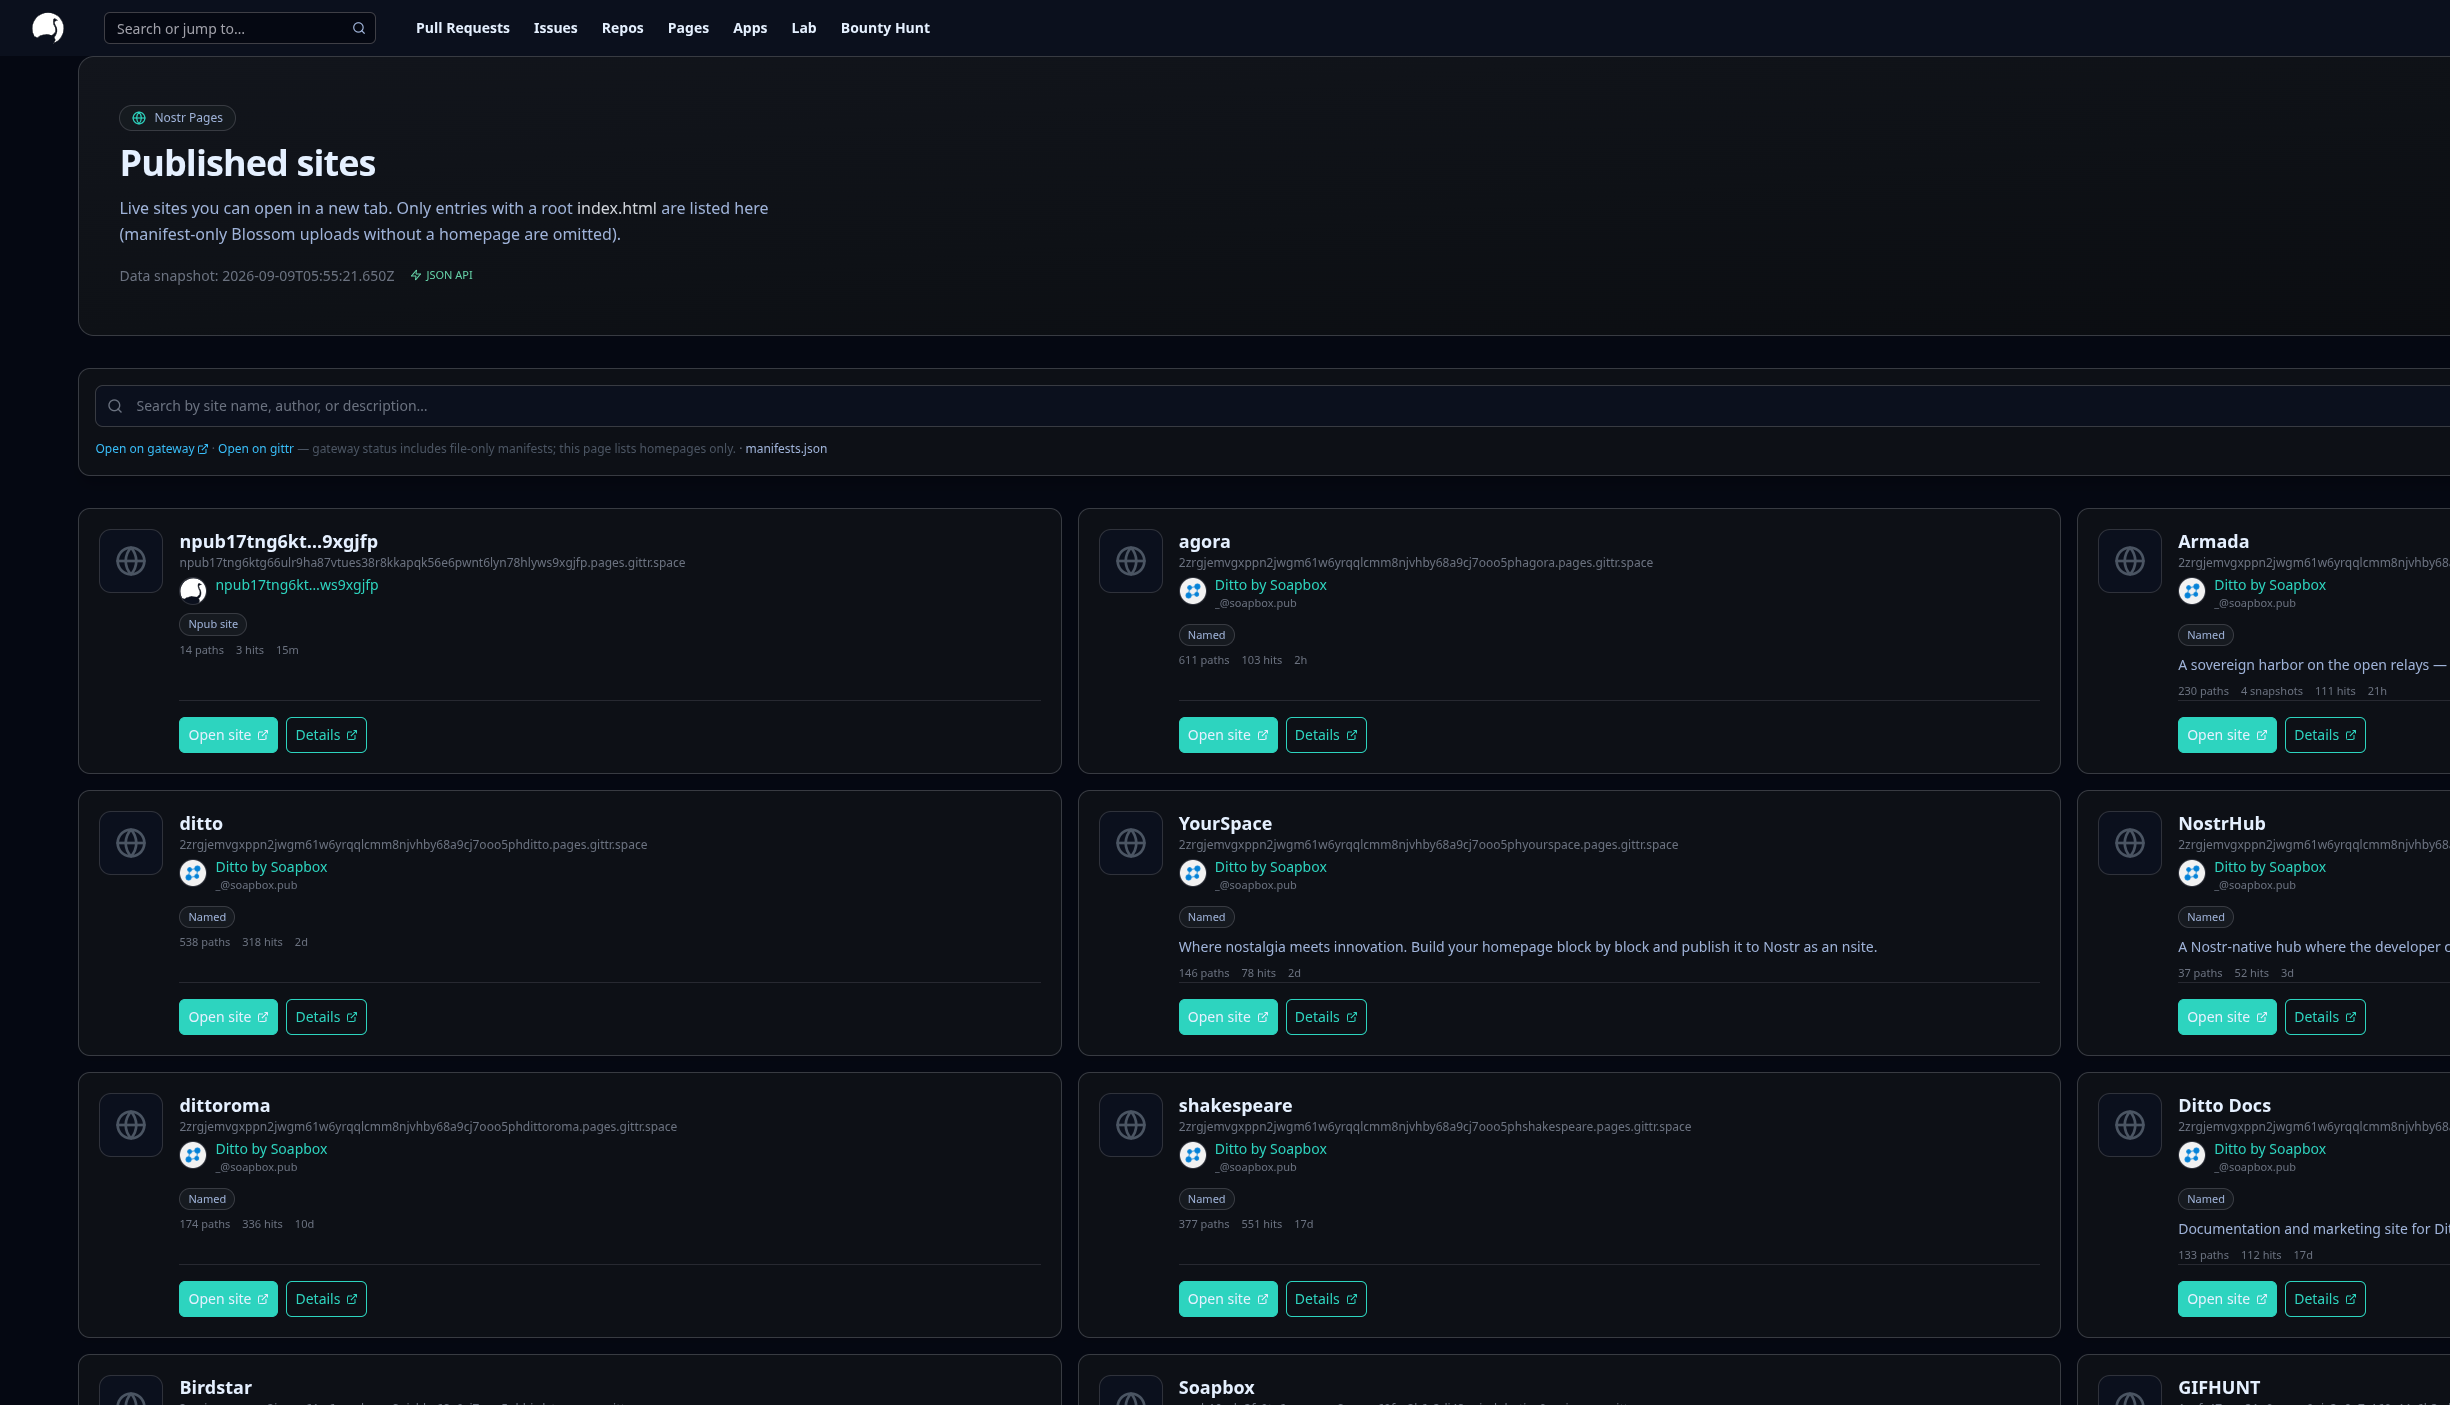
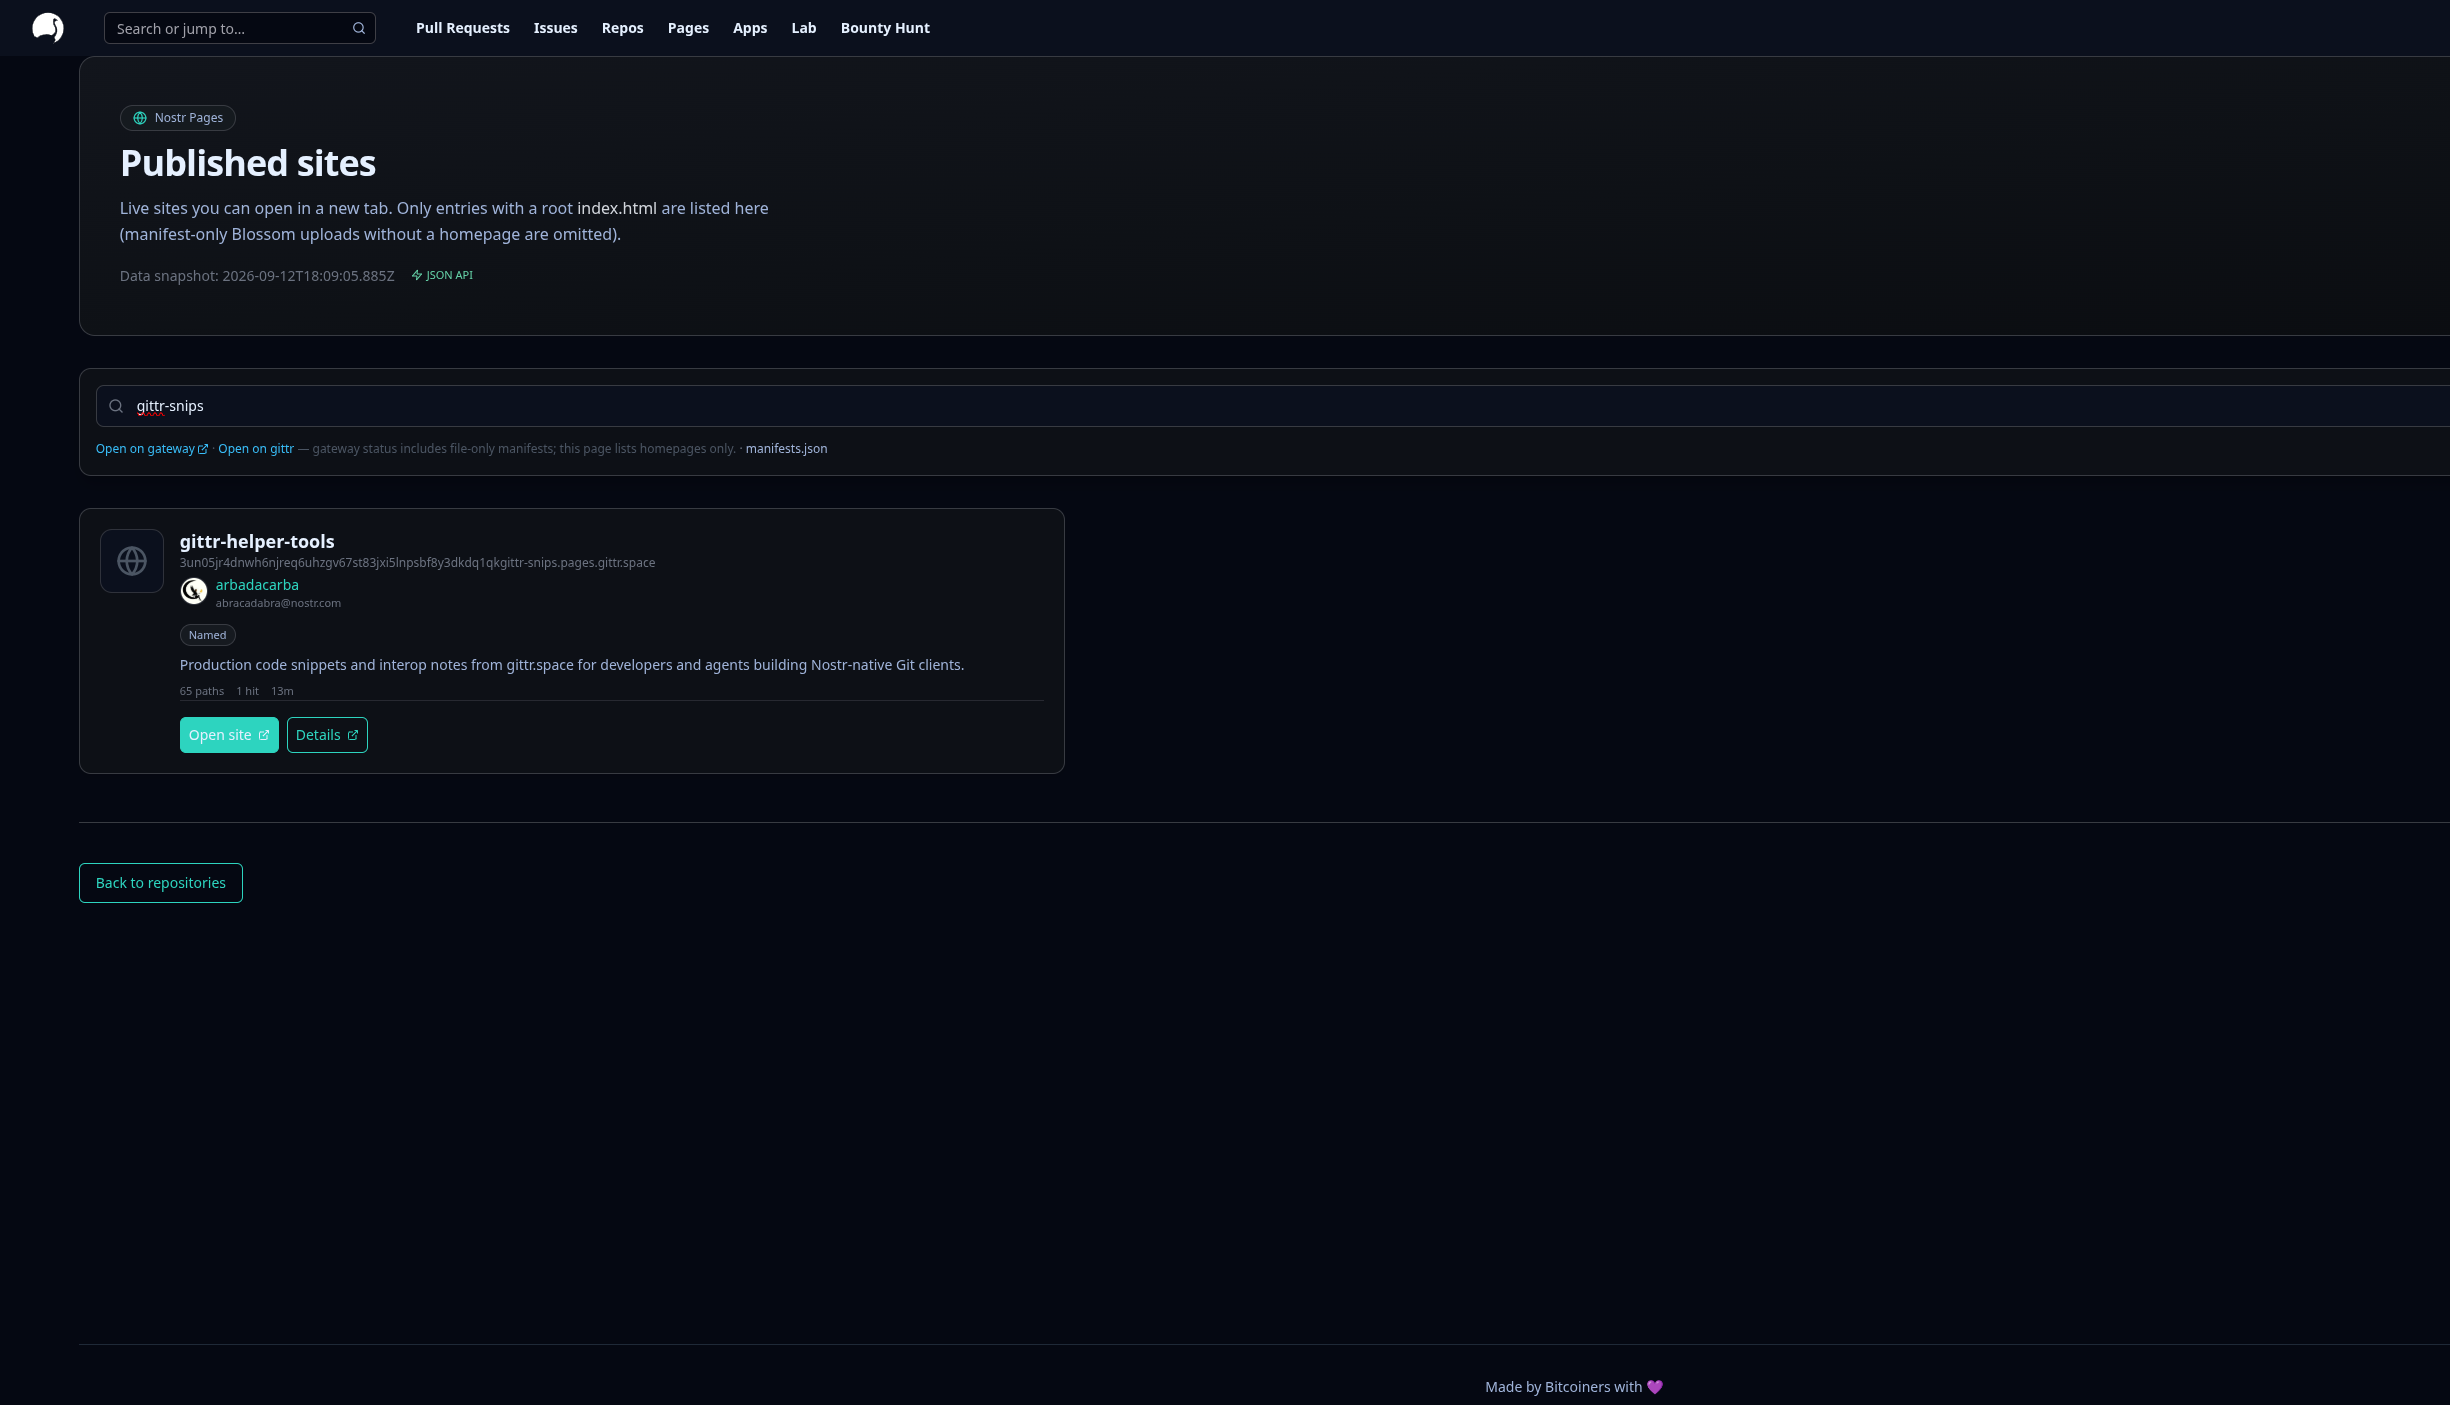
Publish the cookbook as gittr-snips and fix screenshots that did not match.
NIP-5A names are 1–13 characters, so this Page is gittr-snips rather than
the repo slug. Drop the clone-list and platform-map pictures from Star and
bounty recipes, and point the hub link at gittr-docu.

diff --git a/index.html b/index.html
@@ -3,10 +3,10 @@
   <head>
     <meta charset="utf-8" />
     <meta name="viewport" content="width=device-width, initial-scale=1" />
-    <title>Steal our homework — gittr helper tools</title>
+    <title>gittr-snips — client recipes from gittr</title>
     <meta
       name="description"
-      content="Fun, stolen-from-production recipes for building a Git + Nostr client. Screenshots from gittr.space, snippets you can copy."
+      content="Production recipes for building a Git + Nostr client. Screenshots from gittr.space and snippets you can copy. Public Pages name: gittr-snips."
     />
     <link rel="stylesheet" href="./site.css" />
     <link
@@ -20,7 +20,7 @@
       <div class="wrap topbar-inner">
         <a class="brand" href="#top">
           <span class="logo" aria-hidden="true">⚡</span>
-          helper-tools
+          gittr-snips
         </a>
         <nav class="topnav" aria-label="On this page">
           <a href="#layers">Two layers</a>
@@ -38,11 +38,11 @@
           <p class="kicker">Production extracts · MIT · no secrets</p>
           <h1>How to build a <em>git Nostr</em> client without starting from a blank panic.</h1>
           <p class="lede">
-            This is the public face of
+            This is <strong>gittr-snips</strong>, the public Page for
             <a href="https://gittr.space/npub1n2ph08n4pqz4d3jk6n2p35p2f4ldhc5g5tu7dhftfpueajf4rpxqfjhzmc/gittr-helper-tools?branch=main">gittr-helper-tools</a>:
-            the same snippets gittr uses, plus the screenshots so you can see
+            the same snippets gittr uses, plus screenshots so you can see
             <em>why</em> they exist. Copy a folder. Adapt relays. Keep the attribution.
-            The boring README is still in the repo — this page is the fun door.
+            The repo README is the file list — this page is the door.
           </p>
           <div class="cta-row">
             <a class="btn btn-primary" href="#cookbook">Start the cookbook</a>
@@ -58,13 +58,13 @@
             >
             <a
               class="btn btn-ghost"
-              href="https://3un05jr4dnwh6njreq6uhzgv67st83jxi5lnpsbf8y3dkdq1qkgittr.pages.gittr.space/"
-              >gittr map</a
+              href="https://3un05jr4dnwh6njreq6uhzgv67st83jxi5lnpsbf8y3dkdq1qkgittr-docu.pages.gittr.space/"
+              >gittr docs hub</a
             >
           </div>
         </div>
         <aside class="hero-card">
-          <h2>Plot twist: you are already on the homework.</h2>
+          <h2>This page is the recipe, running.</h2>
           <p>
             This site is a <strong>Nostr Page</strong> (NIP-5A kind <code>35128</code>).
             Static files live on Blossom. A tiny manifest on relays tells the gateway
@@ -195,7 +195,7 @@
                 <h3>Optional sparkle</h3>
                 <p>
                   Stars, watch lists, zaps, issue bounties, a static Page, an app
-                  listing. Each has a snippet. Steal only what your product needs.
+                  listing. Each has a snippet. Copy only what your product needs.
                 </p>
               </div>
             </article>
@@ -206,7 +206,7 @@
       <section id="recipes">
         <div class="wrap">
           <div class="section-title">
-            <span class="badge">See it · steal it</span>
+            <span class="badge">See it, then copy it</span>
             <h2>Screenshot, then the snippet that makes that screen honest</h2>
           </div>
 
@@ -282,8 +282,11 @@ const isGrasp = isGraspServer("wss://relay.ngit.dev");
               <figcaption>
                 Sidebar split is a label, not two query engines. Grasp chips are
                 hosts that look like git+Nostr. Relays are wss addresses from the
-                announcement plus what this browser already connected. Live PR/issue
-                lookup uses a wider merged set.
+                announcement plus what this browser already connected.
+                <code>relay.gittr.space</code> can still appear under Grasp
+                Servers in this UI — it is the Pyramid <em>wss</em> relay, not a
+                clone host. Do not put it on a <code>clone</code> tag; git bytes
+                for gittr live on <code>git.gittr.space</code>.
               </figcaption>
             </figure>
           </article>
@@ -332,11 +335,11 @@ const isGrasp = isGraspServer("wss://relay.ngit.dev");
   "kind": 35128,
   "content": "",
   "tags": [
-    ["d", "helper-tools"],          // 1–13 chars
+    ["d", "gittr-snips"],          // 1–13 chars (not the full repo slug)
     ["path", "/index.html", "&lt;sha256&gt;"],
     ["path", "/site.css", "&lt;sha256&gt;"],
     ["server", "https://blossom.gittr.space"],
-    ["title", "Steal our homework"],
+    ["title", "gittr-snips cookbook"],
     ["relay", "wss://relay.gittr.space"]
   ]
 }
@@ -355,8 +358,11 @@ const isGrasp = isGraspServer("wss://relay.ngit.dev");
               />
               <figcaption>
                 <a href="https://gittr.space/pages">gittr.space/pages</a> lists
-                sites that actually have a homepage. Yours shows up after
-                <strong>Push Manifest</strong> on the repo sidebar.
+                named sites that have a homepage. After
+                <strong>Push Manifest</strong>, this cookbook is
+                <strong>gittr-snips</strong> — not the full repo slug
+                <code>gittr-helper-tools</code> (too long for a NIP-5A
+                <code>d</code> tag) and not <code>helper-tools</code>.
               </figcaption>
             </figure>
           </article>
@@ -415,33 +421,29 @@ const isGrasp = isGraspServer("wss://relay.ngit.dev");
 // PRs are kind 1618. Issues are 1621.
 // Comments / threads often 1111.</code></pre>
             </div>
-            <figure class="shot">
-              <img
-                src="./docs-site/assets/gittr-platform.png"
-                alt="gittr platform map: client, bridge, relay, pages, blossom, other NIP-34 clients"
-                width="1280"
-                height="900"
-              />
-              <figcaption>
-                The neighborhood: gittr client, gitnostr bridge, Pyramid relay,
-                Pages gateway, Blossom, plus gitworkshop / ngit / gitplaza.
-                Helper-tools ships the recipes, not another forge.
-              </figcaption>
-            </figure>
+            <p class="lede" style="margin-top: 0">
+              Issues and PRs are Nostr events, not git objects. Funded issues
+              show up on
+              <a href="https://gittr.space/bounty-hunt">gittr.space/bounty-hunt</a>
+              and on the repo Issues tab. PRs are kind <code>1618</code>;
+              issues are <code>1621</code>.
+            </p>
           </article>
 
           <article class="recipe" id="social">
-            <figure class="shot crop">
+            <figure class="shot">
               <img
-                src="./docs-site/assets/git-server-clones.png"
-                alt="Clone URL event list including nostr:// helper form"
-                width="420"
-                height="640"
+                src="./docs-site/assets/star-watch.png"
+                alt="gittr repo header with Watch, Zaps, and Fork on gittr-helper-tools"
+                width="2450"
+                height="160"
               />
               <figcaption>
-                <code>nostr://npub/repo</code> is a helper URL for
-                git-remote-nostr, not a fourth copy of the git. Plain
-                <code>git clone https://…</code> is what most humans want.
+                Repo chrome: <strong>Watch</strong> is a kind <code>10018</code>
+                list. <strong>Star</strong> is kind <code>7</code> on the kind
+                <code>30617</code> announcement (same header row; sign in to use
+                it). Neither lives in Git Server / Clone URL —
+                <a href="#layers">that is a different recipe</a>.
               </figcaption>
             </figure>
             <div class="snippet">
@@ -769,8 +771,9 @@ const isGrasp = isGraspServer("wss://relay.ngit.dev");
         </p>
         <p>
           After you edit this repo: <strong>Push to Nostr</strong>, then sidebar
-          <strong>Nostr Pages → Push Manifest</strong>. Site name slug
-          <code>helper-tools</code> (13 characters, the max). It will appear on
+          <strong>Nostr Pages → Push Manifest</strong>.           Site name slug
+          <code>gittr-snips</code> (11 characters; NIP-5A max is 13 — the repo
+          name <code>gittr-helper-tools</code> does not fit). It will appear on
           <a href="https://gittr.space/pages">/pages</a>.
         </p>
       </div>

diff --git a/README.md b/README.md
@@ -1,6 +1,6 @@
 # gittr helper tools & snippets
 
-**Read this in a browser:** after Pages publish, this repo’s root [`index.html`](./index.html) is the fun cookbook — screenshots from gittr plus copy-paste snippets. It shows up on [gittr.space/pages](https://gittr.space/pages) as **helper-tools**. Until then, open `index.html` locally or browse the repo on [gittr](https://gittr.space/npub1n2ph08n4pqz4d3jk6n2p35p2f4ldhc5g5tu7dhftfpueajf4rpxqfjhzmc/gittr-helper-tools?branch=main).
+**Read this in a browser:** after Pages publish, this repo’s root [`index.html`](./index.html) is the cookbook — screenshots from gittr plus copy-paste snippets. It shows up on [gittr.space/pages](https://gittr.space/pages) as **gittr-snips**. Until then, open `index.html` locally or browse the repo on [gittr](https://gittr.space/npub1n2ph08n4pqz4d3jk6n2p35p2f4ldhc5g5tu7dhftfpueajf4rpxqfjhzmc/gittr-helper-tools?branch=main).
 
 Production **code snippets** from [gittr.space](https://gittr.space) for developers and coding agents building Nostr-native Git clients. Copy a folder, read its README, adapt URLs and relay lists for your app. Source: [gittr on gittr.space](https://gittr.space/npub1n2ph08n4pqz4d3jk6n2p35p2f4ldhc5g5tu7dhftfpueajf4rpxqfjhzmc/gittr?branch=main).
 
